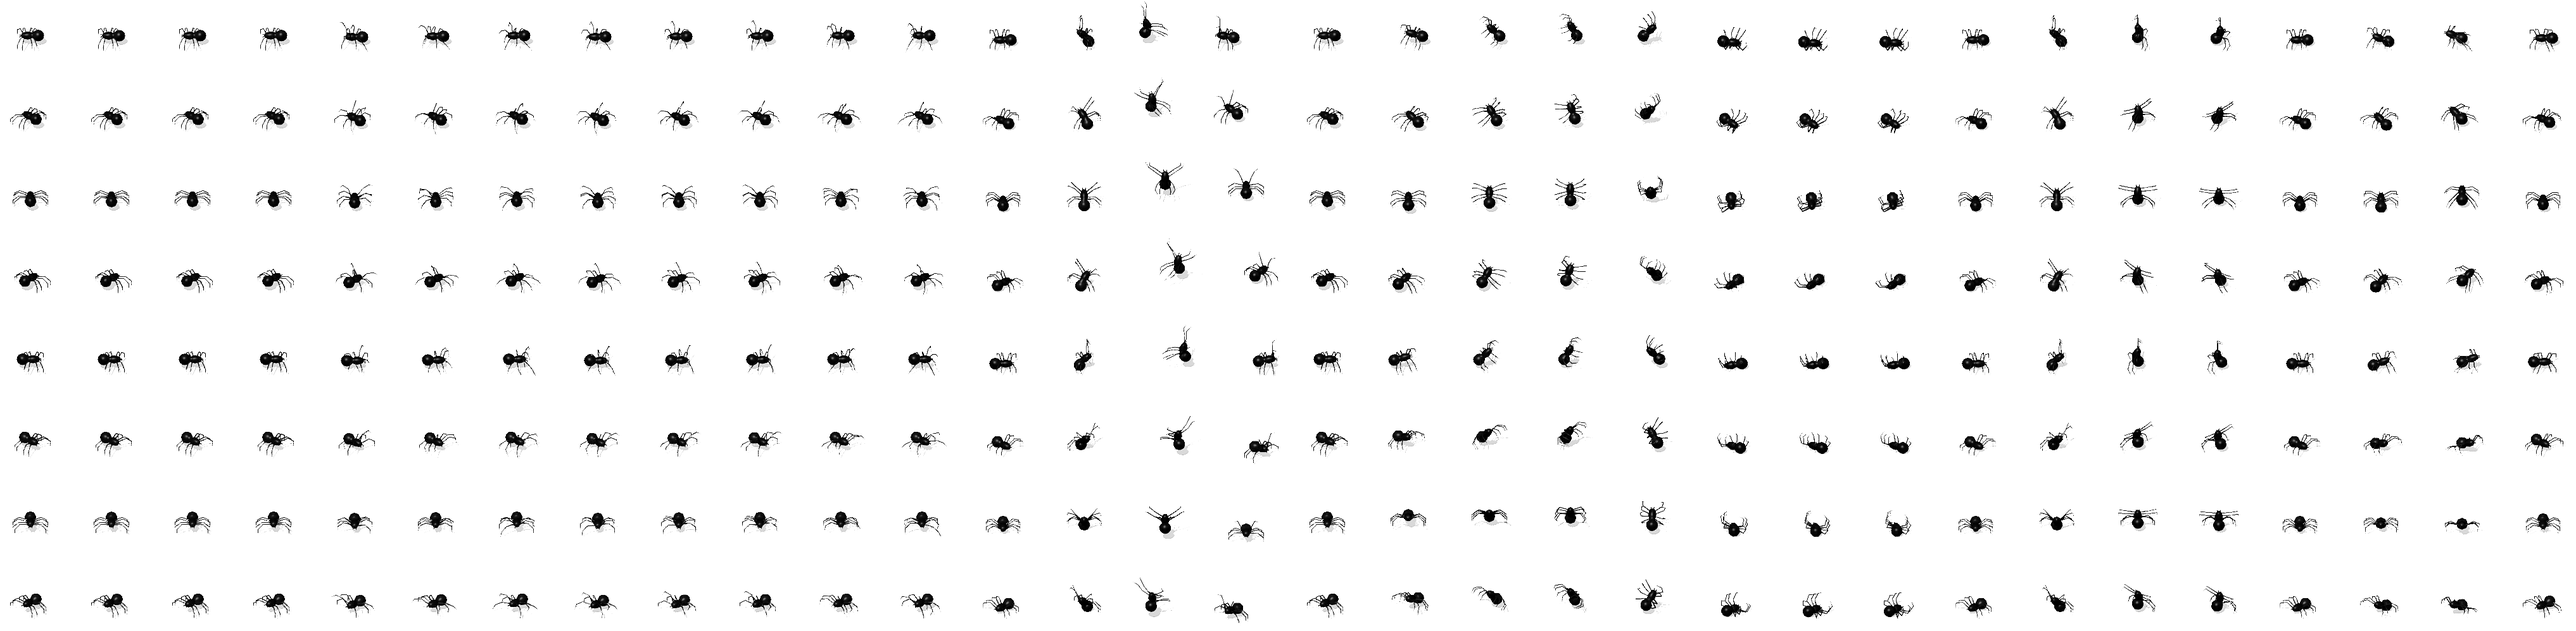
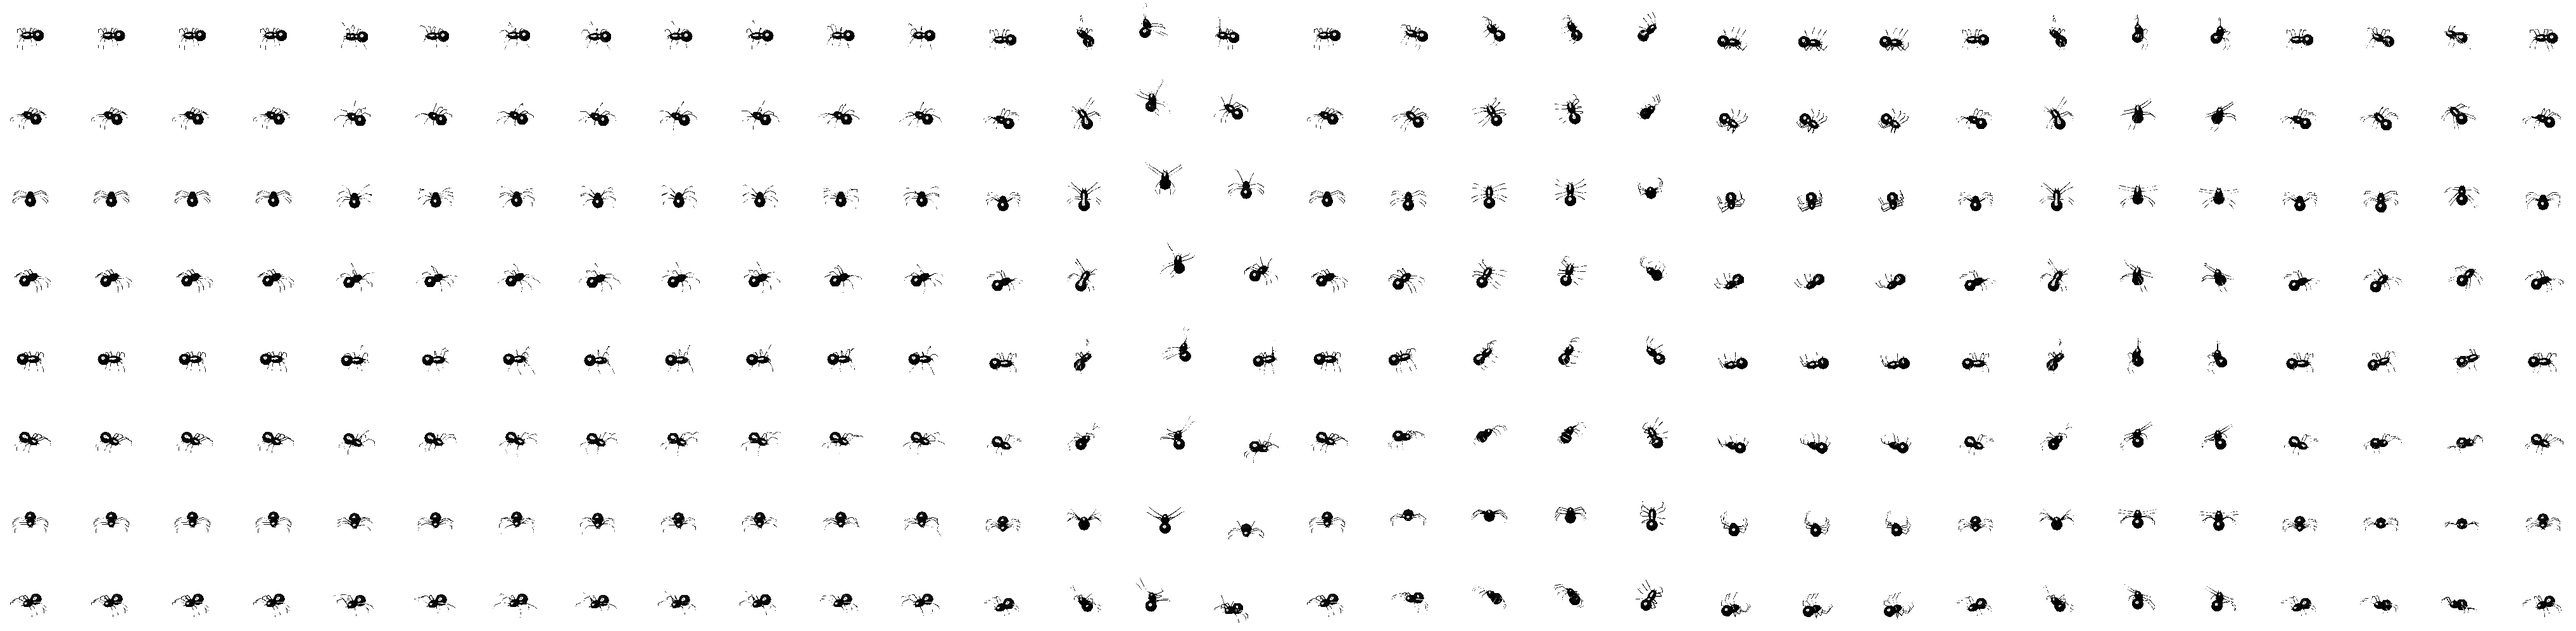
textures bugfix

diff --git a/main.py b/main.py
@@ -150,9 +150,9 @@ if __name__ == "__main__":
 
             all_sprites.update()
             all_sprites.draw(screen)
-            #bird_sprite.draw(mask)
-            #spider_sprite.draw(mask)
-            #whale_sprite.draw(mask)
+            bird_sprite.draw(mask)
+            spider_sprite.draw(mask)
+            whale_sprite.draw(mask)
 
             # draw transparent circle and update display
             screen.blit(mask, (0, 0))
